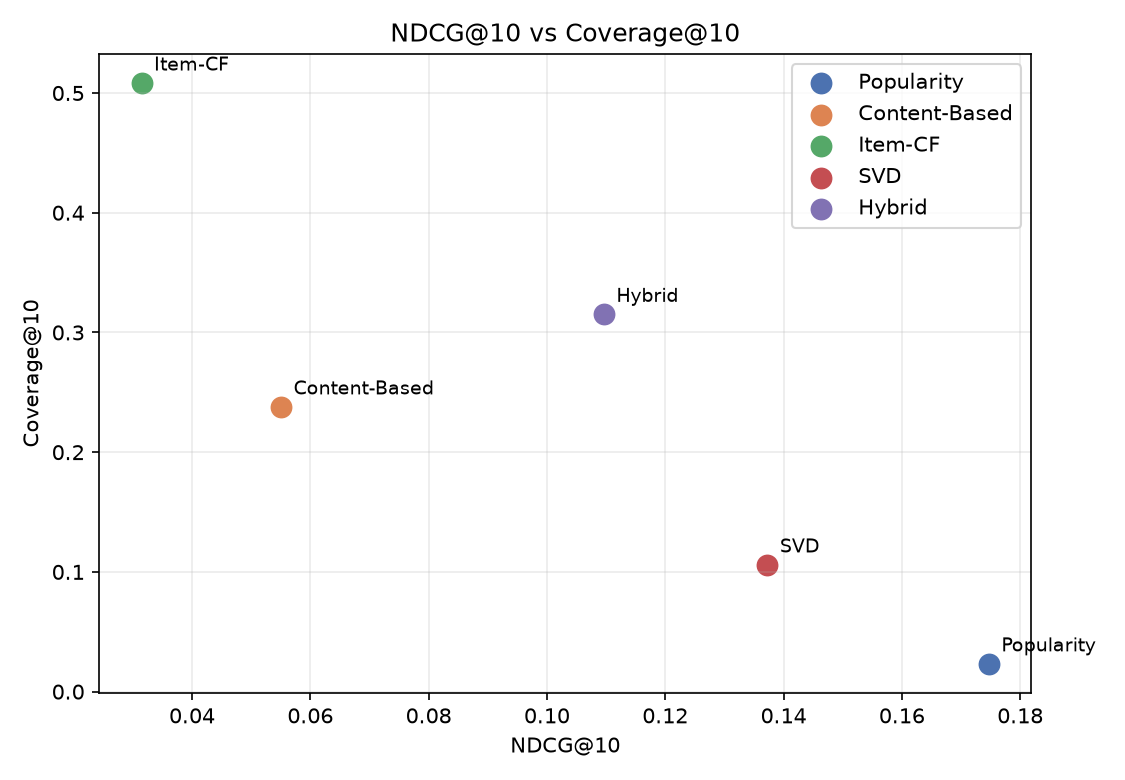
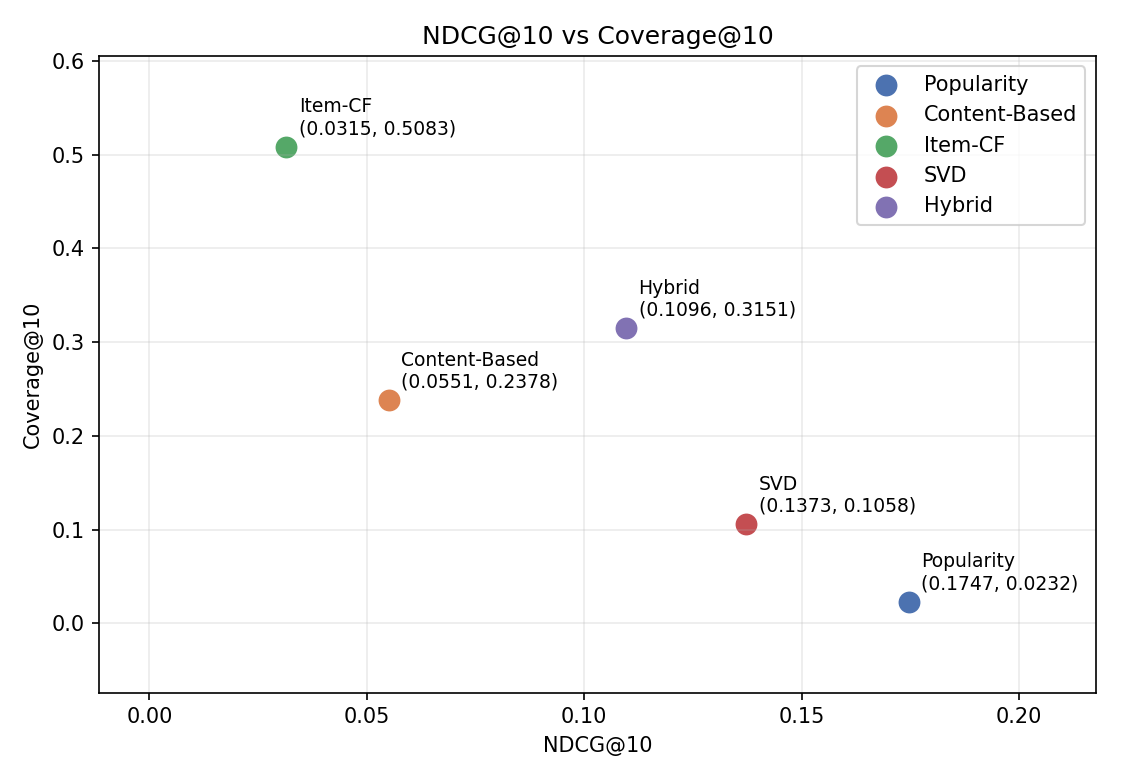
docs(day5): complete Phong evaluation and demo preparation

diff --git a/scripts/make_day5_figures.py b/scripts/make_day5_figures.py
@@ -1,4 +1,5 @@
 import json
+import math
 from pathlib import Path
 
 import matplotlib
@@ -22,6 +23,25 @@ COLORS = ["#4c72b0", "#dd8452", "#55a868", "#c44e52", "#8172b3"]
 def load_json(path):
     with Path(path).open(encoding="utf-8") as handle:
         return json.load(handle)
+
+
+def validate_metrics():
+    for name, model in (("baseline", "popularity"), ("svd", "svd")):
+        data = load_json(METRICS / f"{name}.json")
+        if data.get("model") != model:
+            raise ValueError(f"Invalid model in {name}.json")
+        for metric in ("rmse", "mae"):
+            value = data.get(metric)
+            if isinstance(value, bool) or not isinstance(value, (int, float)) or not math.isfinite(value) or value < 0:
+                raise ValueError(f"Invalid {metric} in {name}.json")
+    ranking = load_json(METRICS / "ranking.json")
+    if set(ranking.get("models", {})) != {key for key, _ in MODELS}:
+        raise ValueError("Ranking must contain exactly five expected models")
+    for key, _ in MODELS:
+        for metric in ("precision@5", "precision@10", "recall@10", "ndcg@10", "coverage@10"):
+            value = ranking["models"][key].get(metric)
+            if isinstance(value, bool) or not isinstance(value, (int, float)) or not math.isfinite(value) or not 0 <= value <= 1:
+                raise ValueError(f"Invalid {key}: {metric}")
 
 
 def save(fig, name):
@@ -97,7 +117,7 @@ def plot_tradeoff():
         coverage = ranking["models"][key]["coverage@10"]
         ax.scatter(ndcg, coverage, s=90, color=color, label=label)
         ax.annotate(
-            label,
+            f"{label}\n({ndcg:.4f}, {coverage:.4f})",
             xy=(ndcg, coverage),
             xytext=(6, 6),
             textcoords="offset points",
@@ -106,12 +126,14 @@ def plot_tradeoff():
     ax.set_xlabel("NDCG@10")
     ax.set_ylabel("Coverage@10")
     ax.set_title("NDCG@10 vs Coverage@10")
+    ax.margins(x=0.3, y=0.2)
     ax.grid(alpha=0.25)
     ax.legend()
     save(fig, "day5_ndcg_vs_coverage.png")
 
 
 def main():
+    validate_metrics()
     plot_rating()
     plot_ranking_metric(
         "ndcg@10",

diff --git a/notes/task_day5_11_11.md b/notes/task_day5_11_11.md
@@ -261,59 +261,59 @@ Chốt số liệu đánh giá cuối, tạo biểu đồ và phân tích lỗi,
 
 #### Task 1 — Tổng hợp số liệu cuối
 
-- [ ] Đọc `reports/metrics/baseline.json`, `svd.json`, `ranking.json`.
-- [ ] Kiểm tra schema và số model/metric.
-- [ ] Lập bảng rating:
+- [x] Đọc `reports/metrics/baseline.json`, `svd.json`, `ranking.json`.
+- [x] Kiểm tra schema và số model/metric.
+- [x] Lập bảng rating:
   - Popularity RMSE/MAE.
   - SVD RMSE/MAE.
   - Chênh lệch tuyệt đối và phần trăm.
-- [ ] Lập bảng ranking 5 model:
+- [x] Lập bảng ranking 5 model:
   - Precision@5, Precision@10, Recall@10, NDCG@10, Coverage@10.
   - Xếp hạng từng cột.
-- [ ] Ghi rõ Popularity tốt nhất NDCG@10; Item-CF tốt nhất Coverage@10.
-- [ ] Ghi rõ SVD cải thiện rating nhưng không vượt Popularity ranking.
-- [ ] Ghi rõ Hybrid không vượt SVD/Popularity về NDCG@10; coverage cao hơn SVD.
-- [ ] Kiểm tra 456 user đánh giá, 487 user bỏ, catalog 1.682.
-- [ ] Không sửa tay số liệu; nếu cần, đọc trực tiếp từ JSON.
+- [x] Ghi rõ Popularity tốt nhất NDCG@10; Item-CF tốt nhất Coverage@10.
+- [x] Ghi rõ SVD cải thiện rating nhưng không vượt Popularity ranking.
+- [x] Ghi rõ Hybrid không vượt SVD/Popularity về NDCG@10; coverage cao hơn SVD.
+- [x] Kiểm tra 456 user đánh giá, 487 user bỏ, catalog 1.682.
+- [x] Không sửa tay số liệu; nếu cần, đọc trực tiếp từ JSON.
 
 #### Task 2 — Biểu đồ cuối
 
-- [ ] Viết `scripts/make_day5_figures.py` hoặc tương đương.
-- [ ] Script đọc JSON, validate key/model, không đọc test/raw data.
-- [ ] Tạo tối thiểu 4 hình:
+- [x] Viết `scripts/make_day5_figures.py` hoặc tương đương.
+- [x] Script đọc JSON, validate key/model, không đọc test/raw data.
+- [x] Tạo tối thiểu 4 hình:
   - `reports/figures/day5_rating_rmse_mae.png`
   - `reports/figures/day5_ranking_ndcg10.png`
   - `reports/figures/day5_ranking_coverage10.png`
   - `reports/figures/day5_ndcg_vs_coverage.png`
-- [ ] Mỗi hình có title, axis label, value label, font đọc được.
-- [ ] Không dùng màu gây nhầm lẫn; thống nhất thứ tự model.
-- [ ] Chạy script 2 lần; xác nhận file tạo được, không lỗi.
-- [ ] Kiểm tra dung lượng PNG hợp lý (< 1 MB/hình nếu có thể).
+- [x] Mỗi hình có title, axis label, value label, font đọc được.
+- [x] Không dùng màu gây nhầm lẫn; thống nhất thứ tự model.
+- [x] Chạy script 2 lần; xác nhận file tạo được, không lỗi.
+- [x] Kiểm tra dung lượng PNG hợp lý (< 1 MB/hình nếu có thể).
 - [ ] Chèn link hình vào `notes/day5_eval.md` và báo Huy/Linh.
-- [ ] Không commit hình nếu hình quá lớn hoặc chứa dữ liệu nhạy cảm; MovieLens là dữ liệu công khai.
+- [x] Không commit hình nếu hình quá lớn hoặc chứa dữ liệu nhạy cảm; MovieLens là dữ liệu công khai.
 
 #### Task 3 — Phân tích lỗi và ví dụ định tính
 
-- [ ] Chạy smoke SVD/Hybrid để lấy ví dụ user 196 và phim 1/50/56.
-- [ ] So sánh top-5 giữa 5 phương pháp cho cùng user 196.
-- [ ] Ghi nhận khác biệt:
+- [x] Chạy smoke SVD/Hybrid để lấy ví dụ user 196 và phim 1/50/56.
+- [x] So sánh top-5 giữa 5 phương pháp cho cùng user 196.
+- [x] Ghi nhận khác biệt:
   - Popularity thiên về phim phổ biến.
   - Content-Based tạo nhiều tie theo genre.
   - Item-CF thưa, precision thấp.
   - SVD đa dạng latent nhưng có thể lệch genre.
   - Hybrid dung hòa nhưng bị dilution.
-- [ ] Kiểm tra fallback:
+- [x] Kiểm tra fallback:
   - User 999999.
   - User metadata-only.
   - Phim zero-interaction.
-- [ ] Ghi rõ fallback dùng Popularity và reason tương ứng.
-- [ ] Ghi hạn chế: một split/seed, chưa kiểm định thống kê.
+- [x] Ghi rõ fallback dùng Popularity và reason tương ứng.
+- [x] Ghi hạn chế: một split/seed, chưa kiểm định thống kê.
 - [ ] (Tuỳ chọn) Nếu còn thời gian, tính bootstrap 95% CI cho NDCG@10 trên 456 user; output `reports/metrics/uncertainty.json`; ghi rõ là phân tích thăm dò, không đổi metric chính.
-- [ ] Không tune threshold/K/trọng số từ kết quả.
+- [x] Không tune threshold/K/trọng số từ kết quả.
 
 #### Task 4 — Viết `notes/day5_eval.md`
 
-- [ ] Tạo file với các mục:
+- [x] Tạo file với các mục:
   - Protocol tóm tắt.
   - Bảng rating.
   - Bảng ranking.
@@ -322,19 +322,20 @@ Chốt số liệu đánh giá cuối, tạo biểu đồ và phân tích lỗi,
   - Fallback/error cases.
   - Hạn chế.
   - Kết luận.
-- [ ] Mọi số liệu khớp JSON.
-- [ ] Link tới `reports/metrics/*.json` và `reports/figures/day5_*.png`.
-- [ ] Ghi rõ “không tune trên test”.
+- [x] Mọi số liệu khớp JSON.
+- [x] Link tới `reports/metrics/*.json` và `reports/figures/day5_*.png`.
+- [x] Ghi rõ “không tune trên test”.
 - [ ] Ghi rõ “một split/seed, chưa kiểm định thống kê” nếu chưa làm bootstrap.
 - [ ] Review lại với Huy trước 15:00.
 
 #### Task 5 — Hỗ trợ demo/Q&A
 
-- [ ] Chuẩn bị 3–5 câu trả lời về metrics.
-- [ ] Giải thích vì sao Popularity có NDCG@10 cao.
-- [ ] Giải thích vì sao SVD RMSE tốt nhưng ranking không cao.
-- [ ] Giải thích coverage và popularity bias.
-- [ ] Chuẩn bị số liệu dự phòng nếu demo app lỗi.
+- [x] Chuẩn bị 3–5 câu trả lời về metrics.
+- [x] Giải thích vì sao Popularity có NDCG@10 cao.
+- [x] Giải thích vì sao SVD RMSE tốt nhưng ranking không cao.
+- [x] Giải thích coverage và popularity bias.
+- [x] Chuẩn bị số liệu dự phòng nếu demo app lỗi.
+
 
 ### 3.4 Lệnh kiểm tra của Phong
 
@@ -353,11 +354,11 @@ pytest tests/test_svd.py tests/test_hybrid.py tests/test_ranking_eval_script.py 
 
 ### 3.5 Tiêu chí hoàn thành
 
-- [ ] Bảng số liệu cuối đầy đủ, khớp JSON.
-- [ ] 4 hình PNG tồn tại và được dùng trong eval/report/slide.
-- [ ] `notes/day5_eval.md` hoàn chỉnh, có phân tích và hạn chế.
-- [ ] Fallback/error cases được ghi nhận.
-- [ ] Không có thay đổi model/hyperparameter/trọng số.
+- [x] Bảng số liệu cuối đầy đủ, khớp JSON.
+- [x] 4 hình PNG tồn tại và được dùng trong eval/report/slide.
+- [x] `notes/day5_eval.md` hoàn chỉnh, có phân tích và hạn chế.
+- [x] Fallback/error cases được ghi nhận.
+- [x] Không có thay đổi model/hyperparameter/trọng số.
 
 ### 3.6 Rủi ro & xử lý
 
@@ -371,10 +372,10 @@ pytest tests/test_svd.py tests/test_hybrid.py tests/test_ranking_eval_script.py 
 
 ### 3.7 Báo cáo cuối ngày
 
-- Đã xong: ...
-- Số liệu/hình: ...
-- Phát hiện chính: ...
-- Blocker: ...
+- Đã xong ngày 10/11/2026: tổng hợp và đối chiếu metrics, tạo lại 4 biểu đồ hai lần, phân tích Top-5 đủ 5 phương pháp, kiểm tra fallback, bổ sung eval và 5 câu Q&A.
+- Số liệu/hình: [day5_eval.md](day5_eval.md), [day5_phong_details.md](day5_phong_details.md); 4 PNG được liên kết trong eval, đều dưới 1 MB. 42 test chuyên biệt đạt, smoke SVD/Hybrid và Ruff đạt.
+- Phát hiện chính: Popularity dẫn đầu NDCG@10; SVD giảm RMSE 10,3905%; Item-CF có coverage cao nhất; Hybrid tăng coverage so với SVD nhưng giảm NDCG@10. Không tune trên test.
+- Còn lại: Huy review tài liệu, xác nhận bàn giao với Huy/Linh. Bootstrap là tùy chọn, chưa thực hiện; chưa kiểm định thống kê. Không có blocker kỹ thuật.
 
 ---
 

diff --git a/notes/day5_eval.md b/notes/day5_eval.md
@@ -84,3 +84,39 @@ Kết quả local: 106 test pass; lint pass; SVD evaluation khoảng 1,42 giây;
 ## Kết luận
 
 Hệ thống đã có đủ 5 phương pháp, đánh giá rating và ranking, fallback rõ ràng và app demo end-to-end. Kết quả thực tế cho thấy Popularity vẫn là baseline mạnh về NDCG@10, SVD cải thiện rating, Item-CF tăng coverage, còn Hybrid là điểm cân bằng nhưng chưa vượt các baseline về accuracy. Báo cáo tổng hợp: [day5_report.md](day5_report.md).
+
+## Phong hoàn thiện Day 5 — xác minh ngày 10/11/2026
+
+Phần tổng hợp phía trên là hồ sơ tích hợp có sẵn. Lần xác minh này thực hiện trên base `20178b4`; các mốc thời gian chạy trong hồ sơ cũ không phải phép đo mới. Nguồn trực tiếp: [baseline.json](../reports/metrics/baseline.json), [svd.json](../reports/metrics/svd.json), [ranking.json](../reports/metrics/ranking.json).
+
+[Bảng chi tiết và số liệu dự phòng](day5_phong_details.md) gồm chênh lệch rating tuyệt đối/phần trăm, thứ hạng từng cột ranking, Top-5 đủ 5 phương pháp cho user 196, Similar Movies SVD/Hybrid cho phim 1/50/56 và reason fallback thực tế.
+
+### Đối chiếu và phân tích ví dụ
+
+- SVD giảm RMSE **0,110865 (10,3905%)**, MAE **0,110650 (12,8201%)** so với baseline. Các số làm tròn từ JSON, không sửa metrics gốc.
+- Với Precision@5, Precision@10, Recall@10 và NDCG@10, thứ tự đều là Popularity → SVD → Hybrid → Content-Based → Item-CF. Coverage@10 có thứ tự Item-CF → Hybrid → Content-Based → SVD → Popularity.
+- User 196: Popularity trả Schindler's List, Star Wars, Casablanca; đây là baseline điểm Bayesian dùng tín hiệu toàn hệ thống, không nên diễn giải đơn thuần là đếm lượt xem.
+- Content-Based trả cả 5 phim cùng score 0,913554 và reason Comedy/Drama. Tie làm giảm khả năng phân biệt nội dung sâu hơn; thứ tự phụ thuộc tie-break movie ID.
+- Item-CF trả cả 5 score 5,000000 sau clip. Coverage cao không bảo đảm precision cao; dữ liệu thưa và dự đoán bị clip là các giả thuyết giải thích, chưa có thí nghiệm ablation chứng minh nguyên nhân.
+- SVD similar cho Toy Story trả Eat Drink Man Woman (45) ở đầu, thể hiện latent similarity không ràng buộc genre hoạt hình. Không có nhãn hài lòng để kết luận đây là gợi ý sai cho từng người.
+- Hybrid Top-5 user 196 giao 3 phim với SVD nhưng đứng đầu bằng Godfather (127). NDCG@10 thấp hơn SVD trong khi coverage cao hơn; việc pha tín hiệu có thể làm loãng tín hiệu ranking mạnh, chưa chứng minh quan hệ nhân quả.
+- Coverage là tỷ lệ phim khác nhau được gợi ý trên toàn nhóm user, không phải phép đo diversity trong từng danh sách hay mức hài lòng.
+
+### Fallback và lỗi
+
+Smoke SVD/Hybrid kiểm tra user lạ 999999, user metadata-only 196 sau khi loại ratings của user khỏi train tạm, và movie 1 sau khi loại tương tác khỏi train tạm. Hai case user trả `method="popularity"`, reason `Fallback phổ biến (cold-start)`; SVD similar cho phim zero-interaction trả Popularity với reason `Fallback phổ biến (thiếu tín hiệu)`. Hybrid vẫn có thể dùng metadata của Content-Based cho phim thiếu tương tác nên không khẳng định mọi phim zero-interaction đều fallback. ID phim không tồn tại gây `ValueError` đúng dự kiến.
+
+### Kiểm chứng và bàn giao
+
+- 42 test thuộc SVD, Hybrid và ranking evaluator đạt; Ruff đạt. Smoke SVD/Hybrid exit code 0, kiểm tra tính lặp lại trên 3 user và 3 phim, sai số vector hóa tối đa `8,88e-16`.
+- Đã chạy script biểu đồ hai lần thành công; SHA-256 của từng ảnh khớp giữa hai lần. Bốn PNG đều dưới 1 MB; biểu đồ trade-off được bổ sung nhãn giá trị. Script kiểm tra đúng model và metric hữu hạn trước khi vẽ, chỉ đọc JSON metrics.
+- Không thay đổi model, hyperparameter, trọng số, threshold hoặc K; không tune trên test. Một split/seed, chưa kiểm định thống kê; không thực hiện bootstrap tùy chọn.
+- Tài liệu và 4 hình đã sẵn sàng để Huy/Linh sử dụng. Chưa có xác nhận review trực tiếp của Huy trong phiên làm việc này; không ghi nhận thay approval hay khẳng định đã bàn giao qua tin nhắn.
+
+### Q&A cho Phong
+
+1. **Vì sao Popularity có NDCG@10 cao nhất?** Trên split này, danh sách điểm phổ biến khớp nhiều relevant item và đứng đầu với 0,174714. Popularity bias là cách giải thích hợp lý, chưa được kiểm chứng bằng thí nghiệm riêng; coverage chỉ 0,023187.
+2. **Vì sao SVD RMSE tốt hơn nhưng ranking thấp hơn?** RMSE đo sai số rating trên các cặp test đã quan sát; NDCG đo vị trí relevant item trong danh sách phim chưa xem. Hai mục tiêu và tập ứng viên khác nhau nên cải thiện mục tiêu này không bảo đảm cải thiện mục tiêu kia.
+3. **Coverage cao có tốt hơn không?** Item-CF phủ 50,8323% catalog nhưng NDCG chỉ 0,031481. Coverage cao cho thấy phạm vi tiếp cận rộng hơn, cần xét cùng chất lượng ranking và không đồng nghĩa ít bias hơn ở mọi khía cạnh.
+4. **Hybrid có tốt nhất không?** Không. NDCG 0,109632 thấp hơn SVD 0,137267; coverage 0,315101 cao hơn SVD 0,105826. Đây là đánh đổi quan sát được, không chọn lại trọng số theo test.
+5. **Nếu demo lỗi hoặc bị hỏi độ tin cậy?** Dùng bảng chi tiết và 4 hình liên kết ở trên. Nêu rõ 456 user được đánh giá, 487 user bị bỏ vì thiếu relevant item; kết quả từ một split/seed, chưa kiểm định thống kê và chưa chứng minh hiệu quả trên người dùng thực.

diff --git a/notes/day5_phong_details.md b/notes/day5_phong_details.md
@@ -1,0 +1,79 @@
+# Phong — số liệu dự phòng và ví dụ Day 5
+
+Xác minh ngày 10/11/2026 trên base `20178b4`. Bảng được tạo trực tiếp từ JSON và kết quả service; không tune trên test.
+
+## Chênh lệch rating
+
+| Metric | Popularity | SVD | Giảm tuyệt đối | Giảm so với baseline |
+|---|---:|---:|---:|---:|
+| RMSE | 1.066985 | 0.956120 | 0.110865 | 10.3905% |
+| MAE | 0.863097 | 0.752447 | 0.110650 | 12.8201% |
+
+## Thứ hạng từng cột
+
+Hạng 1 là giá trị cao nhất; dùng số đầy đủ trong JSON để xếp hạng.
+
+| Model | Precision@5 | Precision@10 | Recall@10 | NDCG@10 | Coverage@10 |
+|---|---:|---:|---:|---:|---:|
+| Popularity | 1 | 1 | 1 | 1 | 5 |
+| Content-Based | 4 | 4 | 4 | 4 | 3 |
+| Item-CF | 5 | 5 | 5 | 5 | 1 |
+| SVD | 2 | 2 | 2 | 2 | 4 |
+| Hybrid | 3 | 3 | 3 | 3 | 2 |
+
+## Top-5 user 196
+
+Score khác thang đo giữa các model; chỉ so thứ tự trong cùng phương pháp. Tất cả kết quả dưới đây đã loại phim có trong train của user 196.
+
+| Model | Hạng | Movie ID | Title | Score | Method thực tế | Reason |
+|---|---:|---:|---|---:|---|---|
+| Popularity | 1 | 318 | Schindler's List (1993) | 4.322012 | popularity | Phổ biến toàn hệ thống |
+| Popularity | 2 | 50 | Star Wars (1977) | 4.281681 | popularity | Phổ biến toàn hệ thống |
+| Popularity | 3 | 483 | Casablanca (1942) | 4.254765 | popularity | Phổ biến toàn hệ thống |
+| Popularity | 4 | 64 | Shawshank Redemption, The (1994) | 4.254277 | popularity | Phổ biến toàn hệ thống |
+| Popularity | 5 | 12 | Usual Suspects, The (1995) | 4.231485 | popularity | Phổ biến toàn hệ thống |
+| Content-Based | 1 | 34 | Doom Generation, The (1995) | 0.913554 | content_based | Khớp thể loại: Comedy, Drama |
+| Content-Based | 2 | 45 | Eat Drink Man Woman (1994) | 0.913554 | content_based | Khớp thể loại: Comedy, Drama |
+| Content-Based | 3 | 47 | Ed Wood (1994) | 0.913554 | content_based | Khớp thể loại: Comedy, Drama |
+| Content-Based | 4 | 65 | What's Eating Gilbert Grape (1993) | 0.913554 | content_based | Khớp thể loại: Comedy, Drama |
+| Content-Based | 5 | 93 | Welcome to the Dollhouse (1995) | 0.913554 | content_based | Khớp thể loại: Comedy, Drama |
+| Item-CF | 1 | 127 | Godfather, The (1972) | 5.000000 | item_cf | Dựa trên phim tương tự bạn đã rating |
+| Item-CF | 2 | 154 | Monty Python's Life of Brian (1979) | 5.000000 | item_cf | Dựa trên phim tương tự bạn đã rating |
+| Item-CF | 3 | 182 | GoodFellas (1990) | 5.000000 | item_cf | Dựa trên phim tương tự bạn đã rating |
+| Item-CF | 4 | 293 | Donnie Brasco (1997) | 5.000000 | item_cf | Dựa trên phim tương tự bạn đã rating |
+| Item-CF | 5 | 311 | Wings of the Dove, The (1997) | 5.000000 | item_cf | Dựa trên phim tương tự bạn đã rating |
+| SVD | 1 | 483 | Casablanca (1942) | 4.287311 | svd | Dự đoán theo sở thích cá nhân (SVD) |
+| SVD | 2 | 408 | Close Shave, A (1995) | 4.278069 | svd | Dự đoán theo sở thích cá nhân (SVD) |
+| SVD | 3 | 169 | Wrong Trousers, The (1993) | 4.265532 | svd | Dự đoán theo sở thích cá nhân (SVD) |
+| SVD | 4 | 318 | Schindler's List (1993) | 4.255841 | svd | Dự đoán theo sở thích cá nhân (SVD) |
+| SVD | 5 | 923 | Raise the Red Lantern (1991) | 4.253564 | svd | Dự đoán theo sở thích cá nhân (SVD) |
+| Hybrid | 1 | 127 | Godfather, The (1972) | 0.602944 | hybrid | Kết hợp SVD + Item-CF + Content-Based |
+| Hybrid | 2 | 481 | Apartment, The (1960) | 0.500000 | hybrid | Kết hợp SVD + Item-CF + Content-Based |
+| Hybrid | 3 | 483 | Casablanca (1942) | 0.500000 | hybrid | Kết hợp SVD + Item-CF + Content-Based |
+| Hybrid | 4 | 408 | Close Shave, A (1995) | 0.487263 | hybrid | Kết hợp SVD + Item-CF + Content-Based |
+| Hybrid | 5 | 169 | Wrong Trousers, The (1993) | 0.469986 | hybrid | Kết hợp SVD + Item-CF + Content-Based |
+
+## Similar Movies SVD/Hybrid
+
+| Method | Phim gốc | Top-5 movie ID theo thứ tự |
+|---|---|---|
+| SVD | 1: Toy Story (1995) | 45, 378, 979, 174, 1459 |
+| SVD | 50: Star Wars (1977) | 181, 172, 174, 1594, 228 |
+| SVD | 56: Pulp Fiction (1994) | 93, 127, 475, 182, 180 |
+| Hybrid | 1: Toy Story (1995) | 174, 50, 28, 45, 95 |
+| Hybrid | 50: Star Wars (1977) | 181, 172, 174, 173, 271 |
+| Hybrid | 56: Pulp Fiction (1994) | 182, 127, 180, 187, 475 |
+
+## Fallback user lạ: reason thực tế
+
+| Method yêu cầu | Method trả về | Reason |
+|---|---|---|
+| popularity | popularity | Phổ biến toàn hệ thống |
+| content_based | popularity | Fallback phổ biến (cold-start) |
+| item_cf | popularity | Fallback phổ biến (cold-start) |
+| svd | popularity | Fallback phổ biến (cold-start) |
+| hybrid | popularity | Fallback phổ biến (cold-start) |
+
+Popularity là baseline gốc nên reason của nó không bắt buộc mang nhãn fallback. Case metadata-only và zero-interaction được xác minh bằng smoke script trên dữ liệu train tạm đã loại user 196 và movie 1; không sửa dữ liệu dự án.
+
+Nguồn: [baseline.json](../reports/metrics/baseline.json), [svd.json](../reports/metrics/svd.json), [ranking.json](../reports/metrics/ranking.json).
